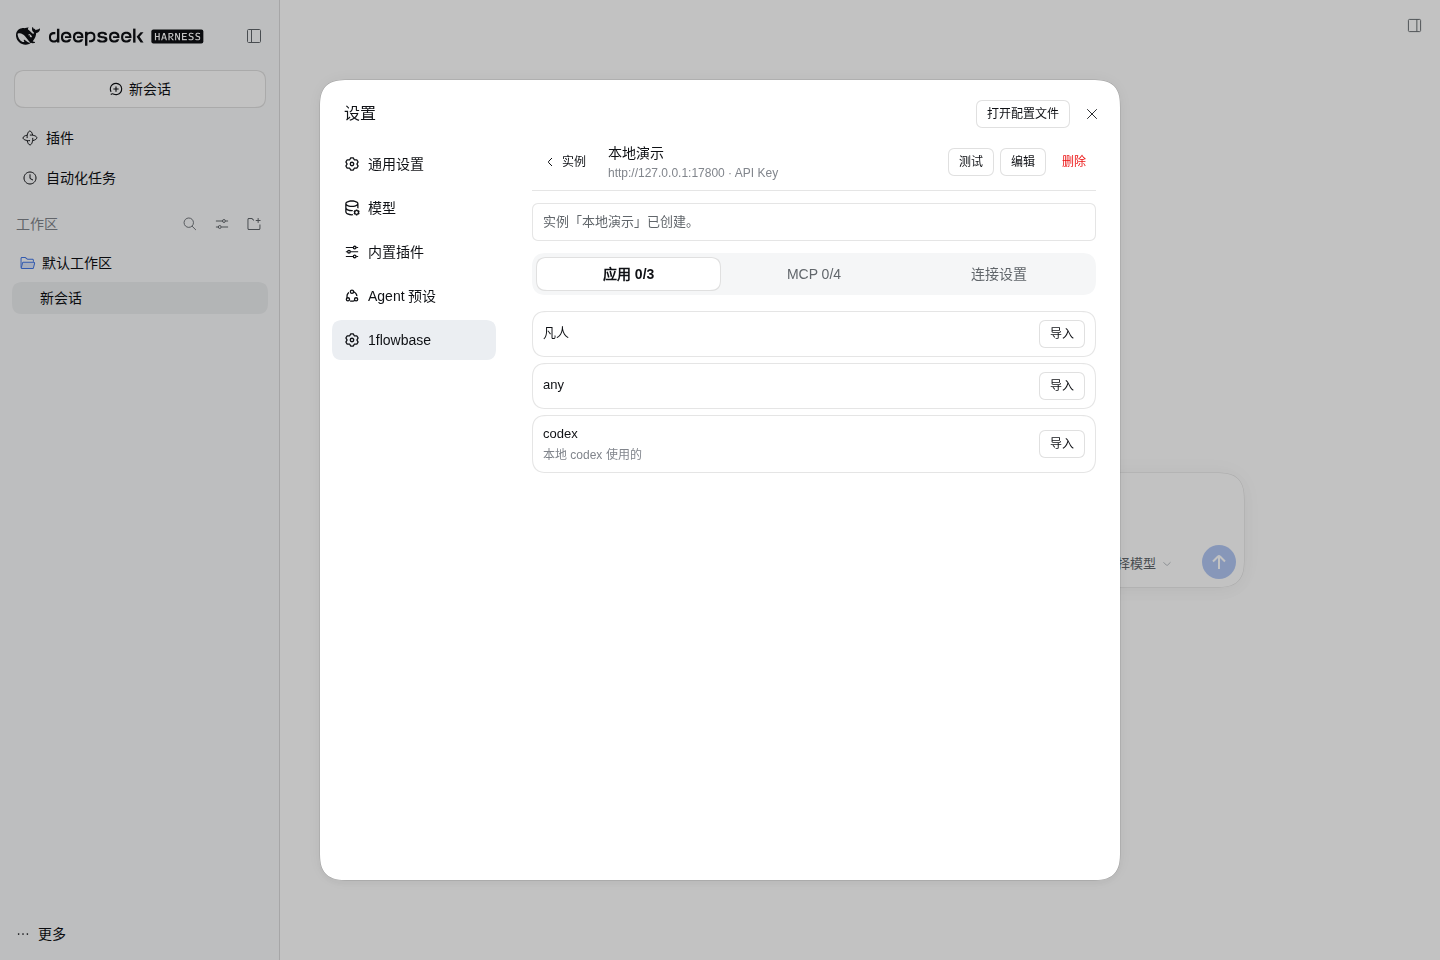
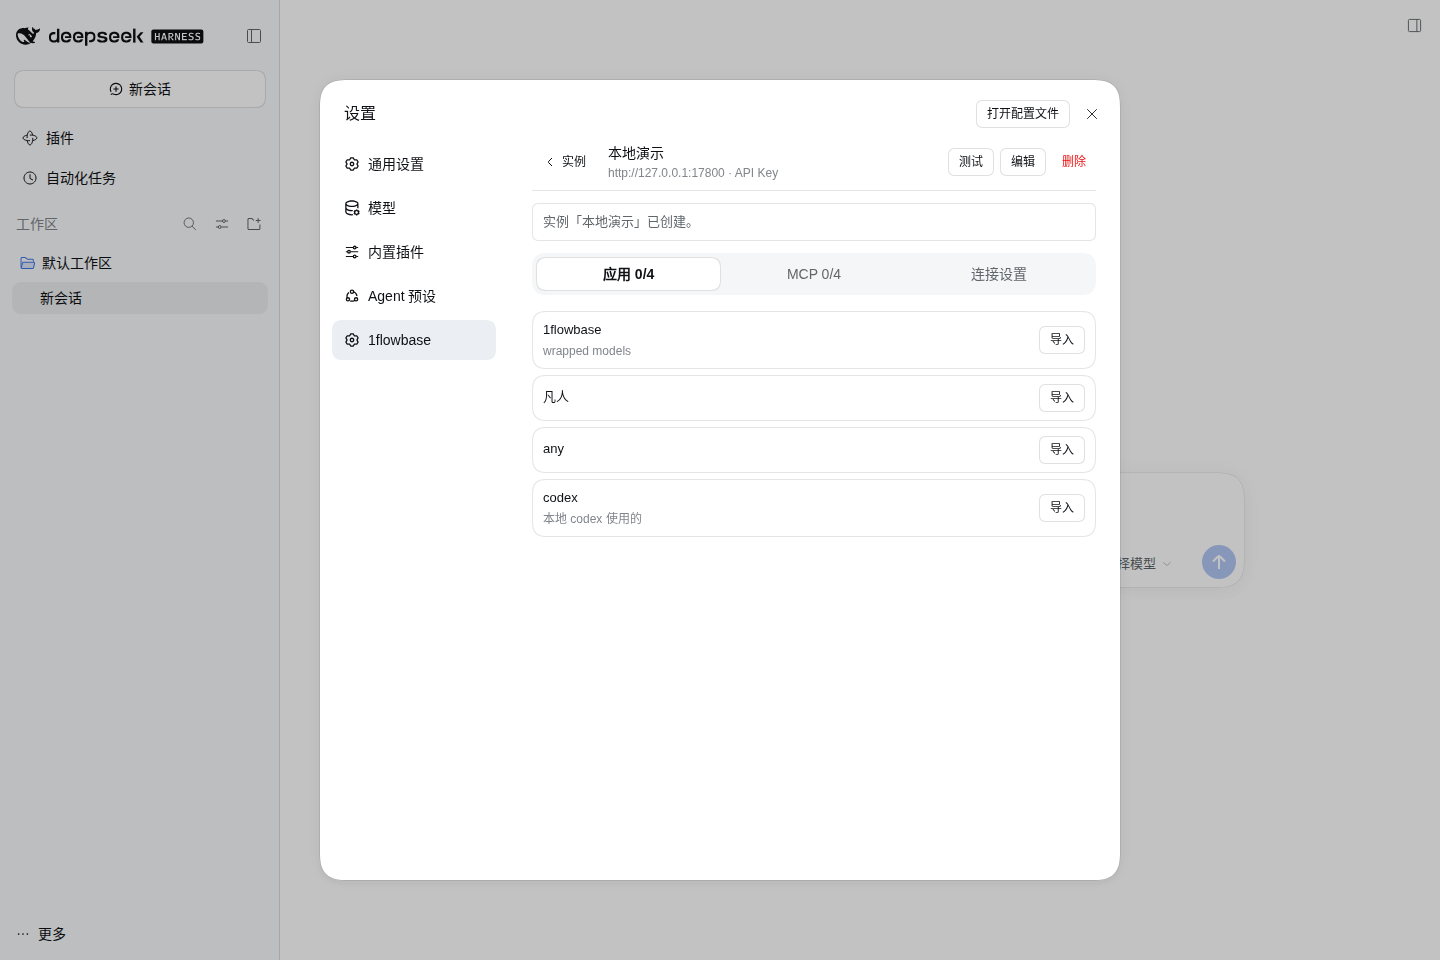
feat: reconcile imported catalogues in the background at startup
A version 1 record knows one model, so the models an application really
publishes only appeared after someone opened the settings page. Reconcile
every imported application once at boot instead: restarting is now enough, and
the model selector is correct before any page is opened. Failures stay per
instance and a per-instance catalogue read failure still keeps the stored
models.

Also fix a stale assertion in the release smoke run and refresh the docs
screenshots for the application-as-provider mapping.

Changed region(s): [[0.375, 0.3438, 0.4375, 0.5625], [0.7188, 0.3438, 0.75, 0.5]]

diff --git a/tests/models.spec.ts b/tests/models.spec.ts
@@ -200,6 +200,28 @@ describe('ModelRegistry', () => {
     expect(store.require(id).applications[0]?.models).toHaveLength(2)
   })
 
+  it('reconciles imported catalogues at boot, without opening a settings page', async () => {
+    const { id, store, registry, upstream: flowbase } = await fixture()
+    await registry.importApplication(id, 'app-1')
+    expect(store.require(id).applications[0]?.models).toHaveLength(1)
+
+    flowbase.setCatalogue('key-app-1', [
+      { id: 'claude-opus-5-5', context_window: 256 },
+      { id: 'gemini-3.8-flash', context_window: 256_000 },
+    ])
+    await registry.reconcileAll()
+    expect(store.require(id).applications[0]?.models.map(model => model.id))
+      .toEqual(['claude-opus-5-5', 'gemini-3.8-flash'])
+  })
+
+  it('keeps booting when an instance catalogue cannot be read', async () => {
+    const { id, store, registry, upstream: flowbase } = await fixture()
+    await registry.importApplication(id, 'app-1')
+    flowbase.failCatalogues(true)
+    await expect(registry.reconcileAll()).resolves.toBeUndefined()
+    expect(store.require(id).applications[0]?.models.map(model => model.id)).toEqual(['claude-opus-5-5'])
+  })
+
   it('unregisters the provider when the application is removed', async () => {
     const { id, registry, registrations } = await fixture()
     await registry.importApplication(id, 'app-1')

diff --git a/src/models.ts b/src/models.ts
@@ -183,6 +183,31 @@ export class ModelRegistry {
   }
 
   /**
+   * Reconcile every imported application's catalogue once, in the background,
+   * so a restart alone brings the model selector up to date — including the
+   * models a migration could not know about. Failures stay per instance.
+   */
+  async reconcileAll(): Promise<void> {
+    for (const instance of this.store.snapshot().instances) {
+      if (instance.applications.length === 0) continue
+      try {
+        const client = new FlowbaseClient({
+          baseUrl: instance.baseUrl,
+          token: instance.token,
+          timeoutMs: this.timeoutMs,
+        })
+        await this.syncCatalogues(instance.id, client, instance.applications)
+      } catch (error) {
+        this.ctx.logger('1flowbase').warn(
+          'cannot reconcile the catalogues of instance %s: %s',
+          instance.name,
+          error instanceof Error ? error.message : String(error),
+        )
+      }
+    }
+  }
+
+  /**
    * Re-read every imported application's catalogue and persist what changed.
    * A catalogue that cannot be read keeps its stored models, so a temporarily
    * unreachable deployment does not drop working providers.

diff --git a/src/index.ts b/src/index.ts
@@ -43,6 +43,9 @@ export async function apply(ctx: Context, config: Config = {}): Promise<void> {
   )
 
   models.refresh()
+  // The selector is usable before any settings page is opened: imported
+  // catalogues are reconciled in the background, so a restart alone is enough.
+  void models.reconcileAll()
   void mcps.restore()
 
   ctx.effect(() => {

diff --git a/README.md b/README.md
@@ -103,7 +103,7 @@ dsh web
 
 应用必须已经在 1flowbase 发布 API 并完成模型映射，否则导入会提示 `application/not-published`；只发布 0 个模型的应用不会被导入成空分组。
 
-打开「应用」标签时会用应用自己的 `/v1/models` 对账一次本地目录：上游加了模型、改了上下文长度都会同步；上游暂时不可达时保留上一次的目录，不丢 provider。移除应用只删除本地注册，不撤销 1flowbase 里的 Application API Key。
+插件启动时、以及打开「应用」标签时，都会用应用自己的 `/v1/models` 对账本地目录：上游加了模型、改了上下文长度都会同步；上游暂时不可达时保留上一次的目录，不丢 provider。移除应用只删除本地注册，不撤销 1flowbase 里的 Application API Key。
 
 ### 启用 MCP 实例
 
@@ -123,7 +123,7 @@ dsh web
 ## 状态与安全
 
 - 状态文件：`$DSH_HOME/1flowbase-dsh-plugin/state.json`，目录 `0700`，文件 `0600`。可用 `DSH_1FLOWBASE_STATE_DIR` 覆盖目录。
-- 状态文件格式为 `version: 2`（每个导入的应用保存整份模型目录）；`version: 1` 的旧文件会被自动读取并迁移，已导入的应用、应用 Key 和实例凭据都不丢，第一次写入时落成 v2。旧格式里只记录了 1 个模型，打开「应用」标签对账后即可补齐其余模型。
+- 状态文件格式为 `version: 2`（每个导入的应用保存整份模型目录）；`version: 1` 的旧文件会被自动读取并迁移，已导入的应用、应用 Key 和实例凭据都不丢，第一次写入时落成 v2。旧格式里只记录了 1 个模型，插件启动时会在后台对账补齐（打开「应用」标签也会对账），因此重启一次即可，不需要额外操作。
 - 更新实例的接口是 `POST /api/1flowbase/instances/:id/update`；地址或凭据变更前先用新配置跑一次验证，验证失败时状态文件不变。
 - 保存的内容包括用户 API Key、每个导入应用的 Application API Key、实例地址和名称。登录密码不保存。
 - 浏览器端只能看到脱敏后的实例视图；API Key 不会出现在任何 HTTP 响应里。

diff --git a/CHANGELOG.md b/CHANGELOG.md
@@ -1,5 +1,9 @@
 # Changelog
 
+## 0.3.1
+
+- Reconcile every imported application's catalogue in the background at startup, so restarting is enough to pick up the models a version 1 migration could not know about; previously they only appeared after opening the settings page.
+
 ## 0.3.0
 
 - Fix the model mapping: an imported Agent Flow **application** is now one model provider, and the whole catalogue it publishes through `GET /v1/models` becomes that provider's models. Previously every instance was a single provider and an import exposed only the first catalogue entry — a five-model application showed up as one model.
